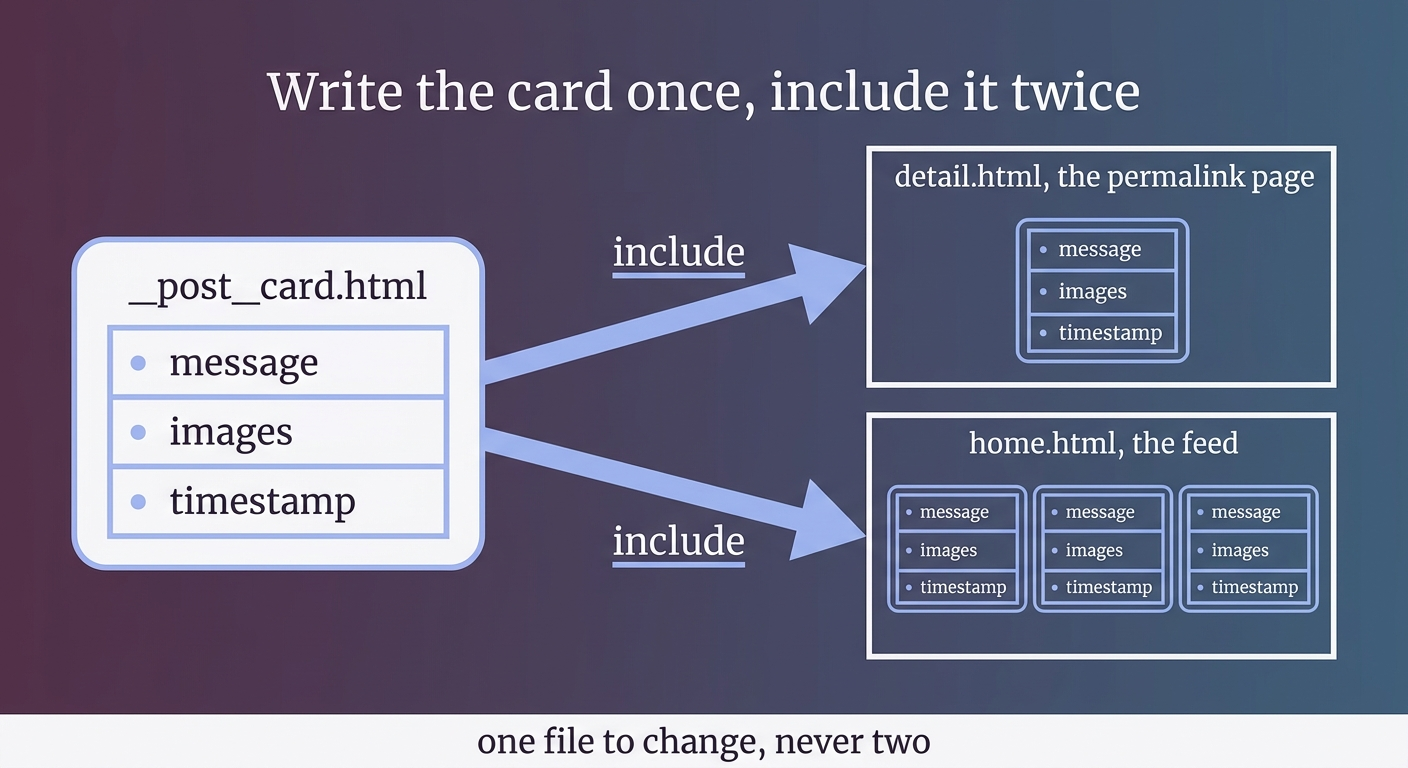
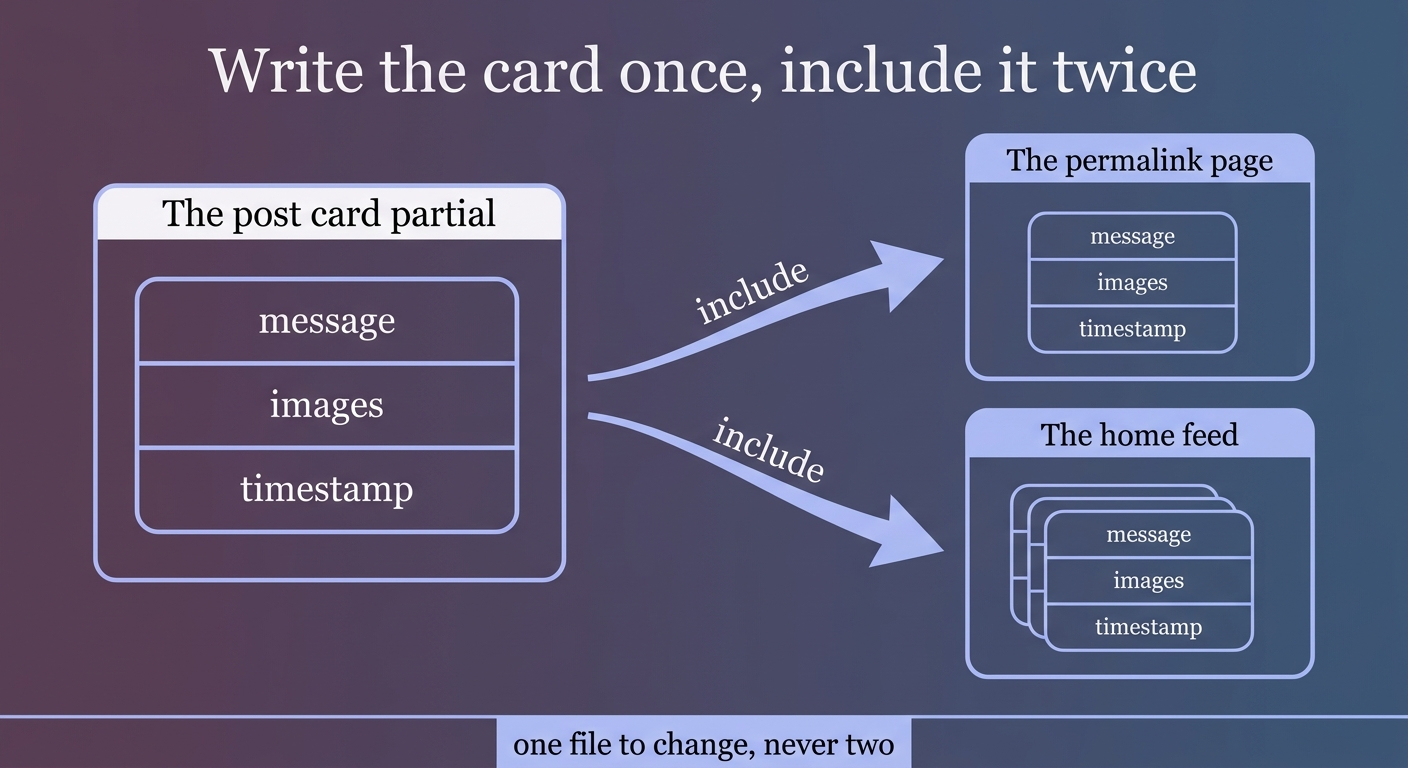
Sync manuscript from main

diff --git a/manuscript/5_QuartFeed_PostgreSQL_DB_FriendFeed_Clone.md b/manuscript/5_QuartFeed_PostgreSQL_DB_FriendFeed_Clone.md
@@ -2194,8 +2194,6 @@ Now the permalink page itself is almost nothing. Create `templates/post/detail.h
 
 It extends `base.html`, includes the navbar, drops in the card, and offers a way back. It is a real page with a real address that search engines will index, which is why it carries the navbar: someone arriving here from a search result needs somewhere to go next. The card itself it does not own.
 
-![The permalink page is one card plus a way back, with no post form wrapped around it.](images/5.8-scene14-img2.png)
-
 [Save the file](https://fmze.co/fftq-5.8.8).
 
 Now the home page. `templates/post/home.html` is still the "the friend feed lands here" placeholder, so replace its inner column with the post form and a card per post:
